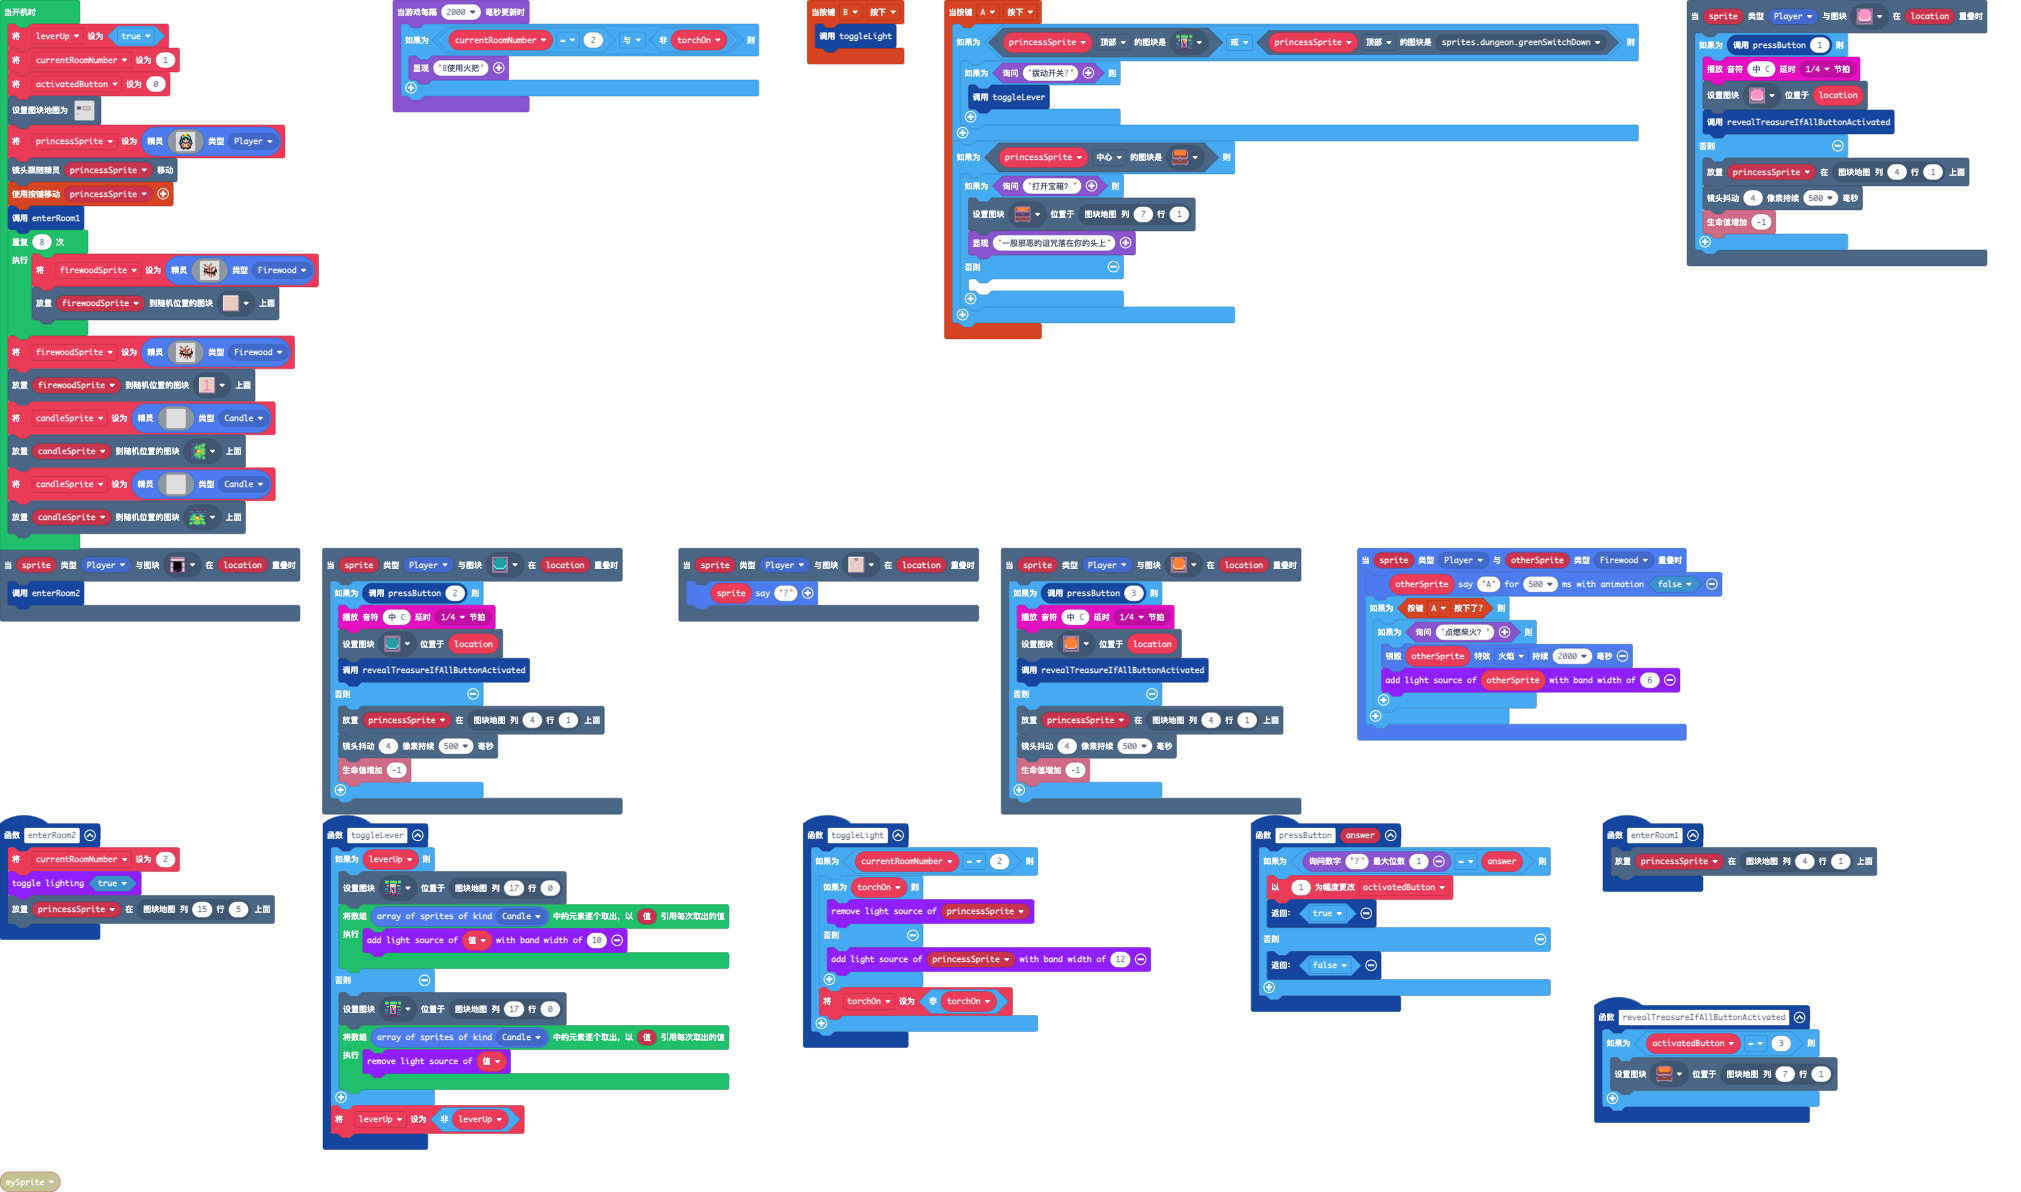
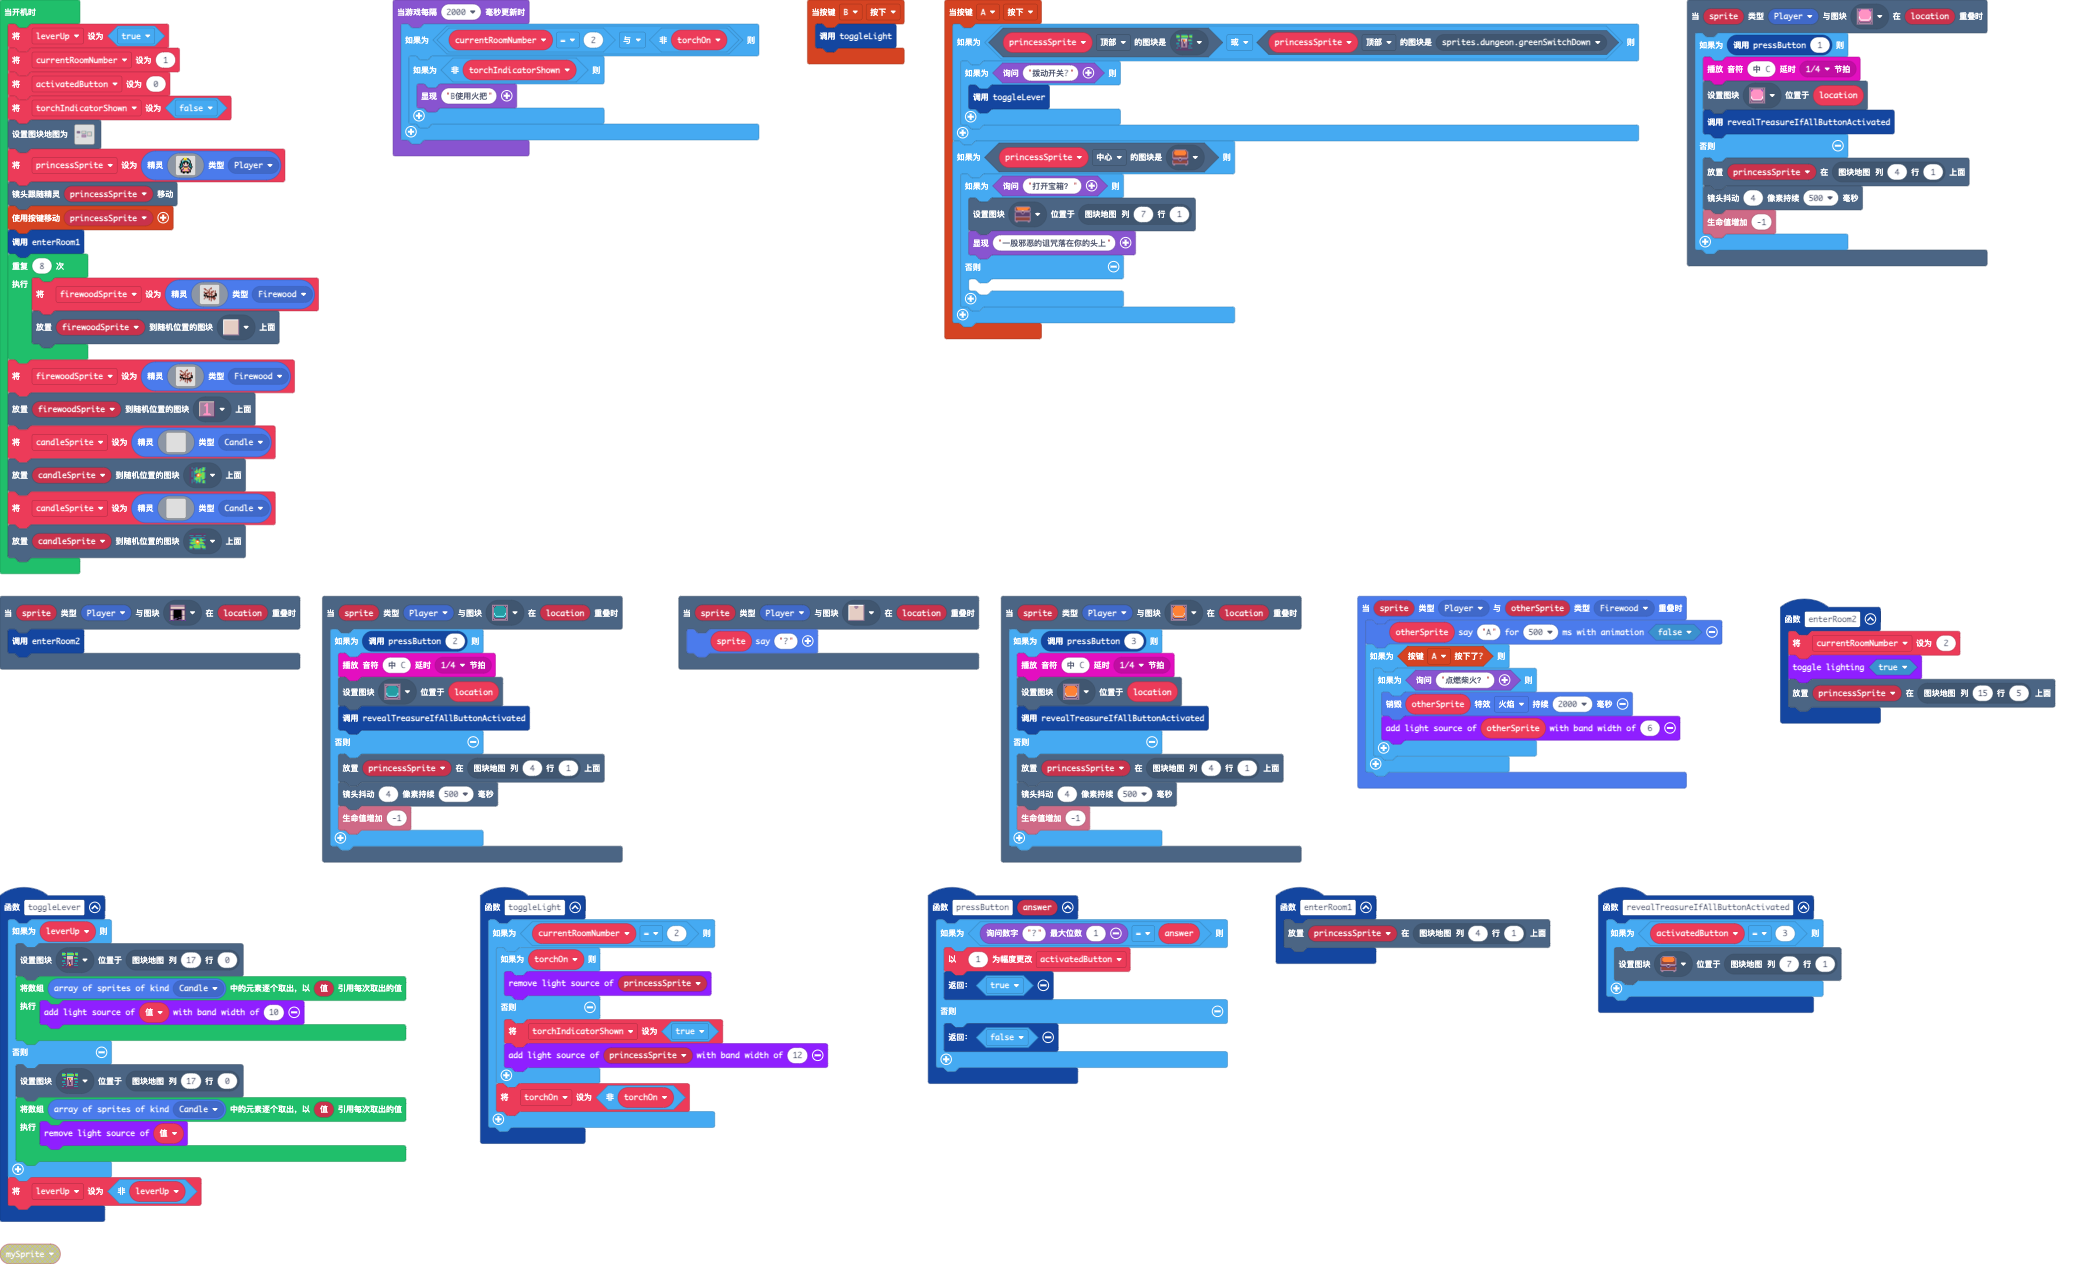
更新 main.blocks, main.ts, tilemap.g.jres, tilemap.g.ts

diff --git a/tilemap.g.ts b/tilemap.g.ts
@@ -3,35 +3,39 @@ namespace myTiles {
     //% fixedInstance jres blockIdentity=images._tile
     export const transparency16 = image.ofBuffer(hex``);
     //% fixedInstance jres blockIdentity=images._tile
-    export const tile1 = image.ofBuffer(hex``);
-    //% fixedInstance jres blockIdentity=images._tile
     export const tile2 = image.ofBuffer(hex``);
     //% fixedInstance jres blockIdentity=images._tile
     export const tile3 = image.ofBuffer(hex``);
     //% fixedInstance jres blockIdentity=images._tile
     export const tile4 = image.ofBuffer(hex``);
+    //% fixedInstance jres blockIdentity=images._tile
+    export const tile5 = image.ofBuffer(hex``);
+    //% fixedInstance jres blockIdentity=images._tile
+    export const tile6 = image.ofBuffer(hex``);
+    //% fixedInstance jres blockIdentity=images._tile
+    export const tile1 = image.ofBuffer(hex``);
 
     helpers._registerFactory("tilemap", function(name: string) {
         switch(helpers.stringTrim(name)) {
             case "级别1":
[1 lines of base64/hex data omitted]
-2........2...222222222222222....
-2........2...2.............2....
-2........2...2.............2....
-2........2...2............22....
-2........2...2...........2.2....
-2........2...2..........2..2....
-2222222222...22.222222222222....
-................................
-................................
-................................
-................................
-................................
-................................
-................................
-................................
-................................
-`, [myTiles.transparency16,sprites.dungeon.darkGroundNorthWest0,sprites.dungeon.darkGroundNorthEast0,sprites.dungeon.darkGroundSouthWest0,sprites.dungeon.darkGroundSouth,sprites.dungeon.darkGroundSouthEast0,sprites.dungeon.darkGroundEast,sprites.dungeon.darkGroundWest,sprites.dungeon.darkGroundNorth,sprites.dungeon.darkGroundCenter,sprites.dungeon.buttonOrange,sprites.dungeon.buttonTeal,sprites.dungeon.buttonPink,sprites.dungeon.doorOpenNorth,sprites.dungeon.buttonOrangeDepressed,sprites.dungeon.buttonTealDepressed,sprites.dungeon.buttonPinkDepressed,sprites.dungeon.chestClosed,sprites.dungeon.chestOpen,sprites.dungeon.greenOuterNorthWest,sprites.dungeon.greenOuterNorth0,sprites.dungeon.greenOuterWest0,sprites.dungeon.greenOuterSouthEast,sprites.dungeon.greenOuterSouth1,sprites.dungeon.greenOuterEast0,sprites.dungeon.greenOuterNorthEast,sprites.dungeon.greenOuterSouthWest,sprites.dungeon.floorLight2,sprites.dungeon.stairNorth,sprites.dungeon.greenOuterEast2,sprites.dungeon.greenOuterSouth2,sprites.dungeon.greenSwitchUp,myTiles.tile1,myTiles.tile2,myTiles.tile3,myTiles.tile4], TileScale.Sixteen);
[1 lines of base64/hex data omitted]
+22.2.2.222...22222222222................
+2........2...2.........2................
+2........2...2.........2...22222222222..
+2........2...2........22...2.........2..
+2........2...2.......2.2...2.........2..
+2........2...2......2..2...2.........2..
+2222222222...22.22222222...2.........2..
+...........................2.........2..
+...........................2.........2..
+.............22222222222...2.........2..
+.............2.........2...2.........2..
+.............2.........2...2.........2..
+.............2.........2...22.22222222..
+.............2.........2................
+.............2.........2................
+.............22.22222222................
+`, [myTiles.transparency16,sprites.dungeon.darkGroundNorthWest0,sprites.dungeon.darkGroundNorthEast0,sprites.dungeon.darkGroundSouthWest0,sprites.dungeon.darkGroundSouth,sprites.dungeon.darkGroundSouthEast0,sprites.dungeon.darkGroundEast,sprites.dungeon.darkGroundWest,sprites.dungeon.darkGroundNorth,sprites.dungeon.darkGroundCenter,sprites.dungeon.buttonOrange,sprites.dungeon.buttonTeal,sprites.dungeon.buttonPink,sprites.dungeon.doorOpenNorth,sprites.dungeon.buttonOrangeDepressed,sprites.dungeon.buttonTealDepressed,sprites.dungeon.buttonPinkDepressed,sprites.dungeon.chestClosed,sprites.dungeon.chestOpen,sprites.dungeon.greenOuterNorthWest,sprites.dungeon.greenOuterNorth0,sprites.dungeon.greenOuterWest0,sprites.dungeon.greenOuterSouthEast,sprites.dungeon.greenOuterSouth1,sprites.dungeon.greenOuterEast0,sprites.dungeon.greenOuterNorthEast,sprites.dungeon.greenOuterSouthWest,sprites.dungeon.floorLight2,sprites.dungeon.stairNorth,sprites.dungeon.greenOuterEast2,sprites.dungeon.greenOuterSouth2,sprites.dungeon.greenSwitchUp,myTiles.tile1,myTiles.tile2,myTiles.tile4,myTiles.tile5,myTiles.tile6,sprites.dungeon.floorDark2,sprites.dungeon.purpleOuterNorthWest,sprites.dungeon.purpleOuterNorth0,sprites.dungeon.purpleOuterEast1,sprites.dungeon.purpleOuterWest0,sprites.dungeon.purpleOuterSouthEast,sprites.dungeon.purpleOuterNorthEast,sprites.dungeon.purpleOuterSouth1,sprites.dungeon.purpleOuterSouthWest], TileScale.Sixteen);
         }
         return null;
     })
@@ -39,14 +43,18 @@ namespace myTiles {
     helpers._registerFactory("tile", function(name: string) {
         switch(helpers.stringTrim(name)) {
             case "transparency16":return transparency16;
-            case "myTile":
-            case "tile1":return tile1;
             case "myTile0":
             case "tile2":return tile2;
             case "myTile1":
             case "tile3":return tile3;
             case "myTile2":
             case "tile4":return tile4;
+            case "myTile3":
+            case "tile5":return tile5;
+            case "myTile4":
+            case "tile6":return tile6;
+            case "myTile":
+            case "tile1":return tile1;
         }
         return null;
     })

diff --git a/main.ts b/main.ts
@@ -31,6 +31,7 @@ function toggleLight () {
         if (torchOn) {
             multilights.removeLightSource(princessSprite)
         } else {
+            torchIndicatorShown = true
             multilights.addLightSource(princessSprite, 12)
         }
         torchOn = !(torchOn)
@@ -116,12 +117,14 @@ scene.onOverlapTile(SpriteKind.Player, sprites.dungeon.buttonTeal, function (spr
 let torchOn = false
 let firewoodSprite: Sprite = null
 let princessSprite: Sprite = null
+let torchIndicatorShown = false
 let activatedButton = 0
 let currentRoomNumber = 0
 let leverUp = false
 leverUp = true
 currentRoomNumber = 1
 activatedButton = 0
+torchIndicatorShown = false
 tiles.setTilemap(tilemap`级别1`)
 princessSprite = sprites.create(img`
     . . . . . . 5 . 5 . . . . . . . 
@@ -224,6 +227,8 @@ candleSprite = sprites.create(img`
 tiles.placeOnRandomTile(candleSprite, sprites.dungeon.greenOuterSouth2)
 game.onUpdateInterval(2000, function () {
     if (currentRoomNumber == 2 && !(torchOn)) {
-        game.splash("B使用火把")
+        if (!(torchIndicatorShown)) {
+            game.splash("B使用火把")
+        }
     }
 })
